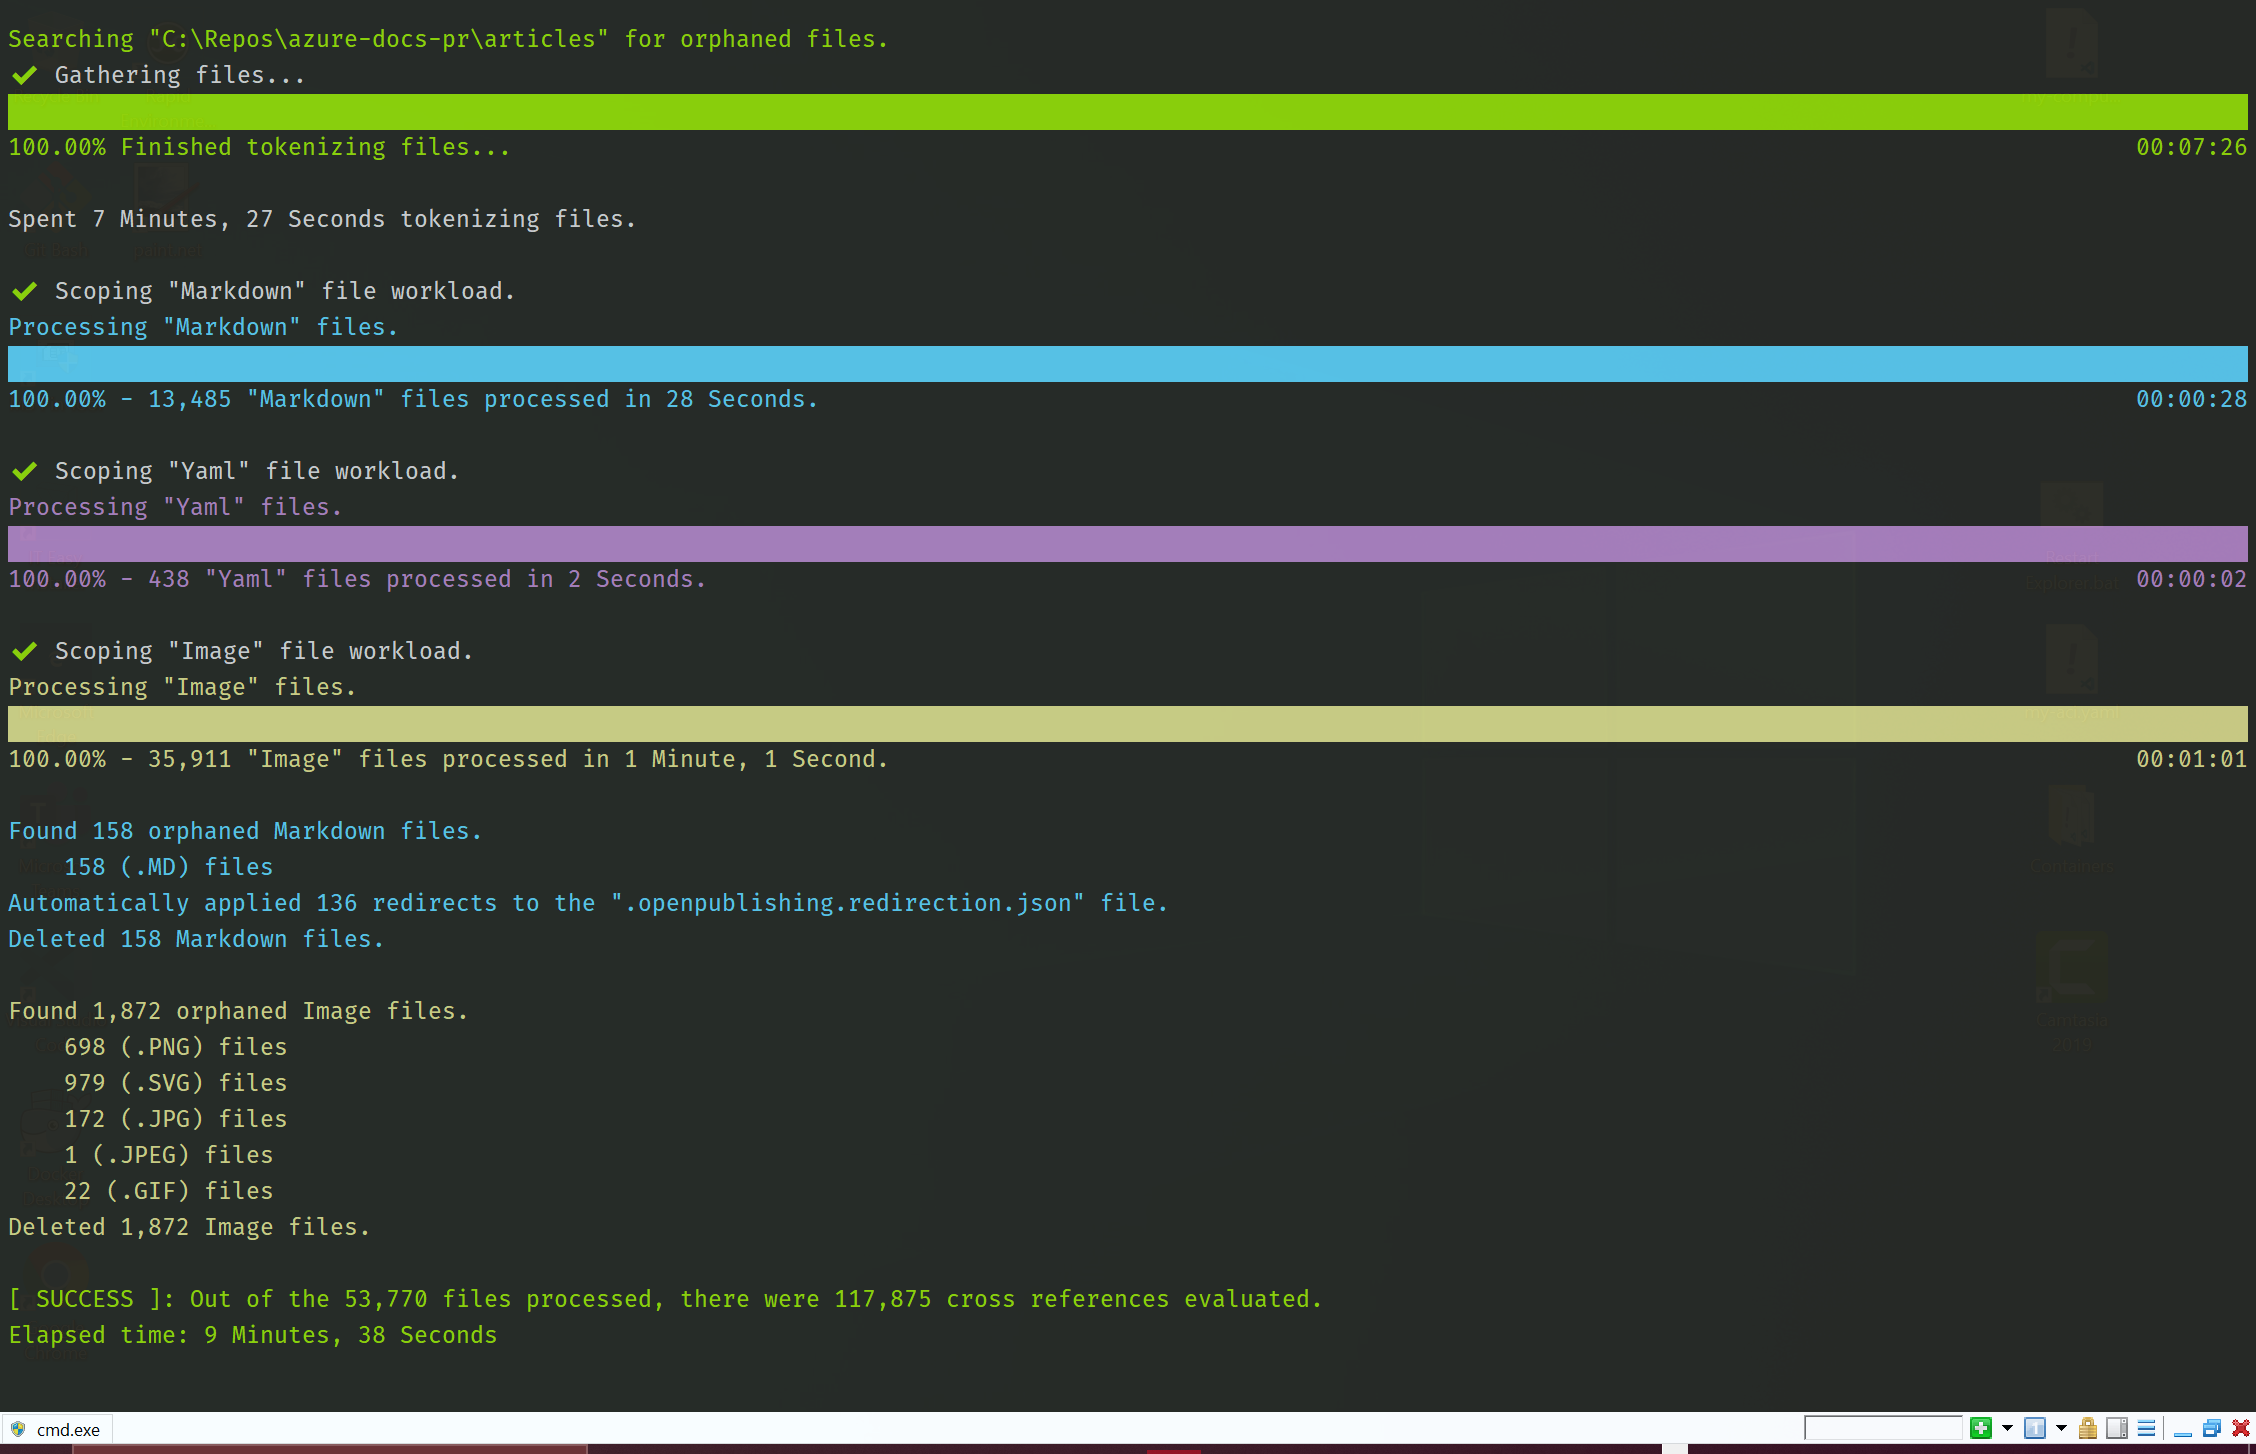
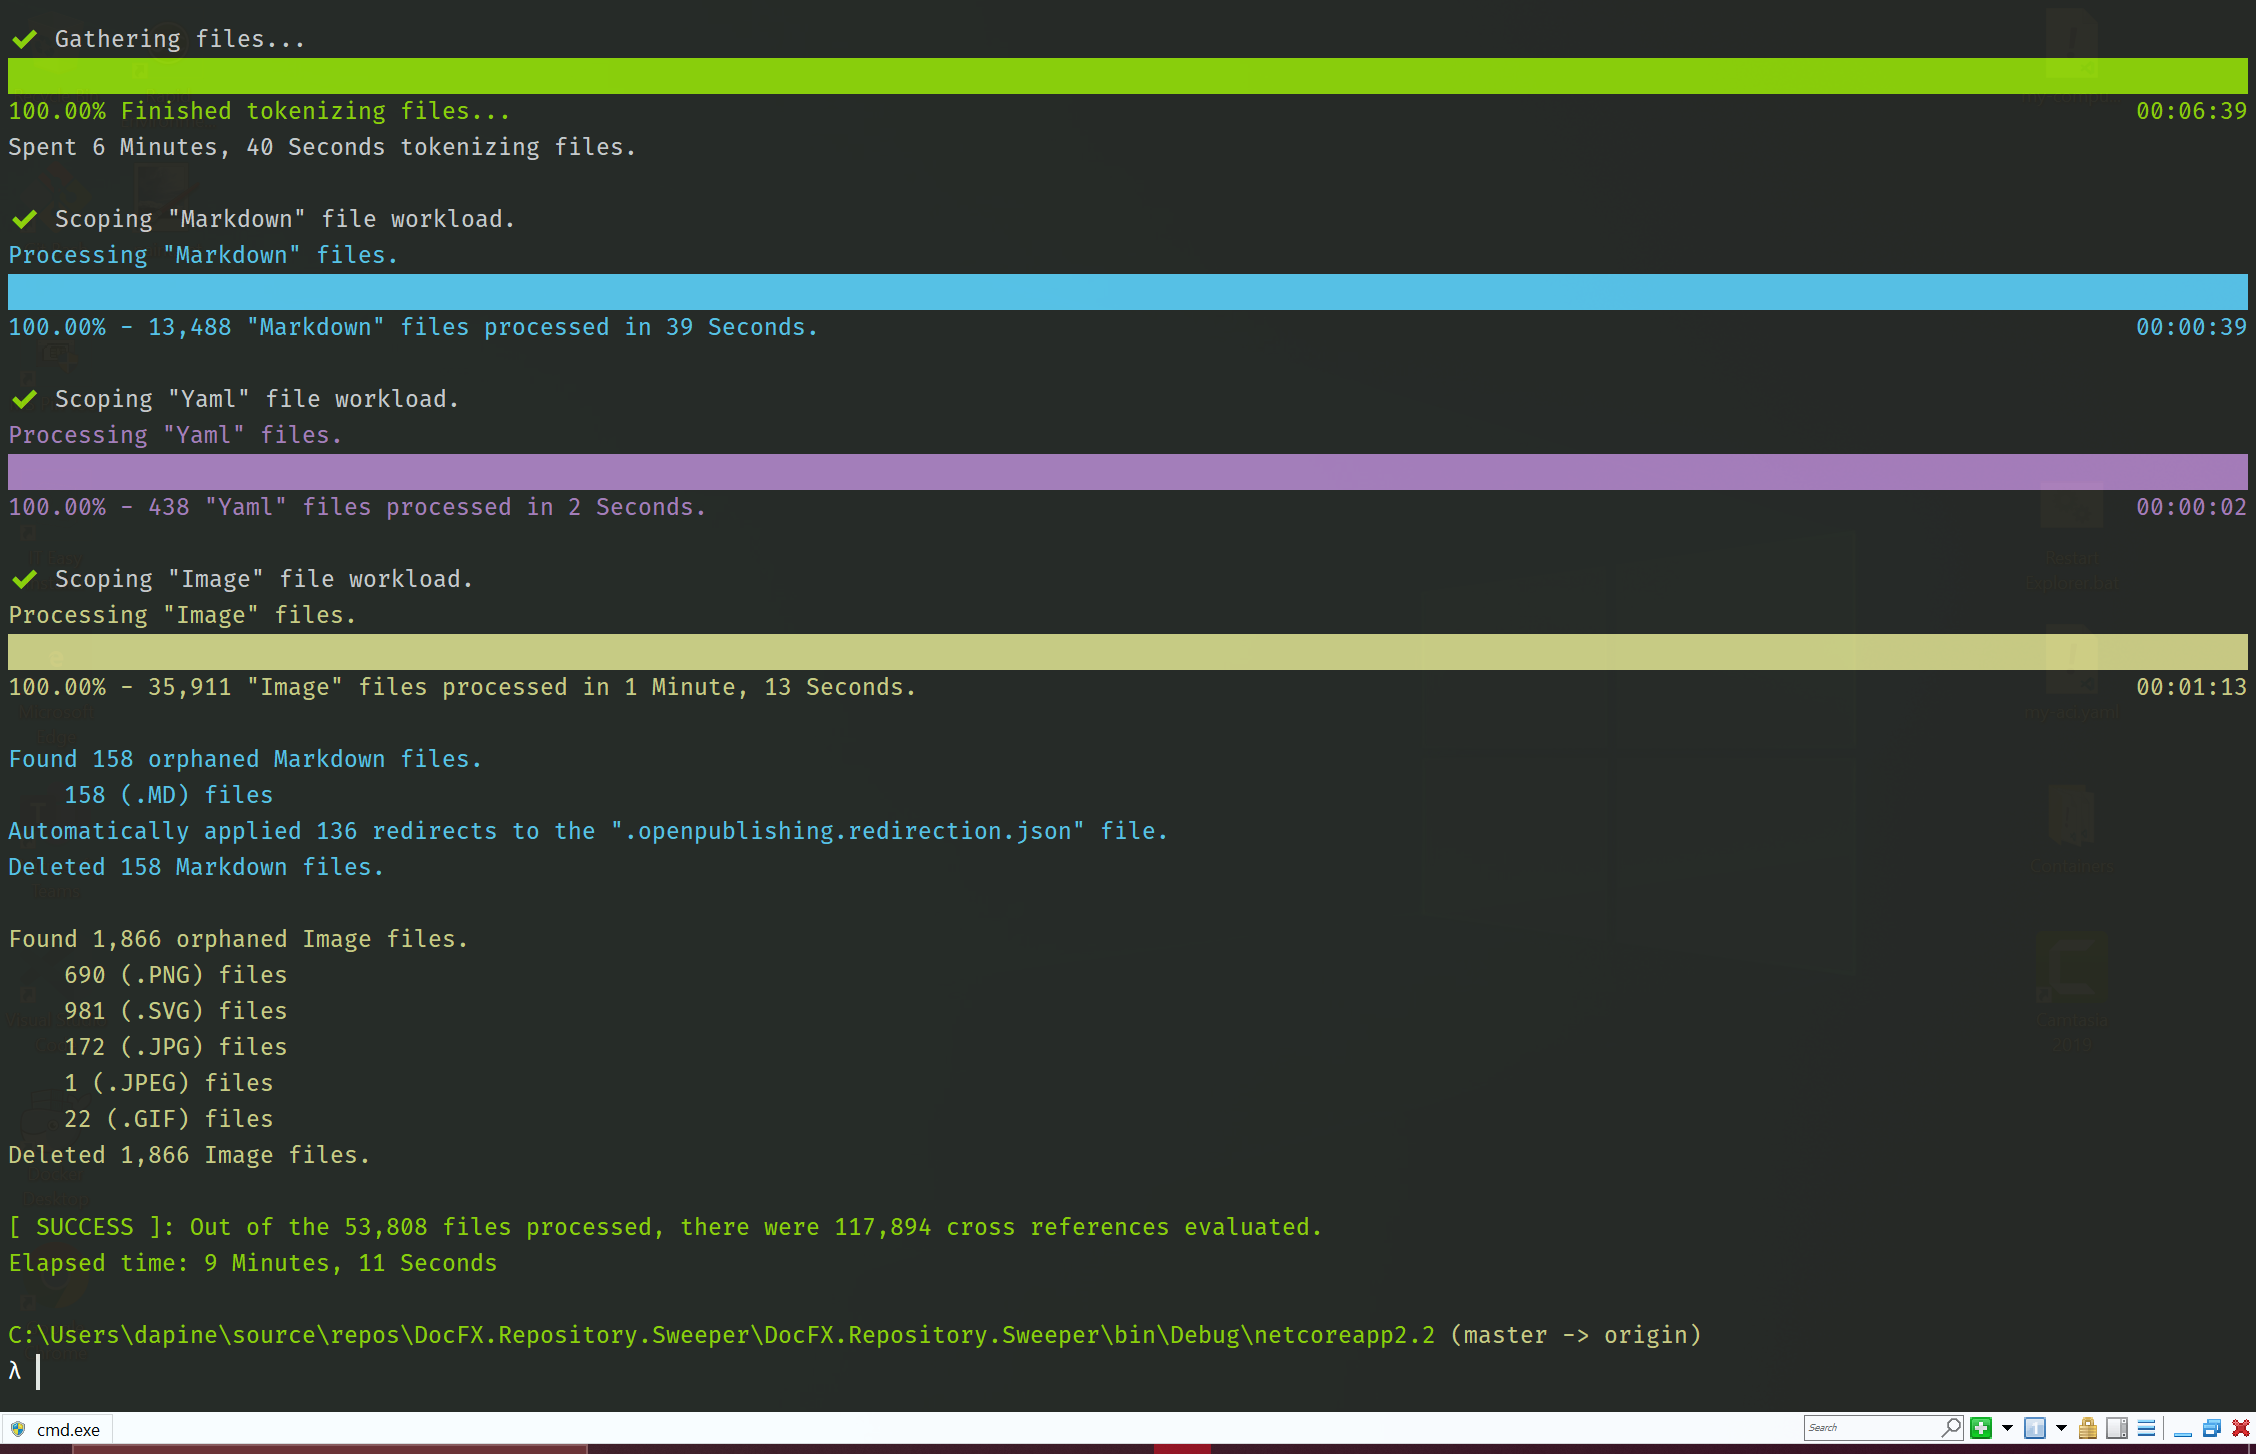
Fixed the last of the known bugs

diff --git a/DocFX.Repository.Sweeper/Core/FileToken.cs b/DocFX.Repository.Sweeper/Core/FileToken.cs
@@ -15,8 +15,6 @@ namespace DocFX.Repository.Sweeper.Core
 
         readonly FileInfo _fileInfo;
         readonly Lazy<Task<string[]>> _readAllLinesTask;
-        readonly HashSet<string> _imagesReferenced = new HashSet<string>();
-        readonly HashSet<string> _topicsReferenced = new HashSet<string>();
 
         public FileToken(FileInfo file)
         {
@@ -32,8 +30,8 @@ namespace DocFX.Repository.Sweeper.Core
 
         public string FilePath => _fileInfo?.FullName;
         public FileType FileType { get; }
-        public ISet<string> TopicsReferenced => _topicsReferenced;
-        public ISet<string> ImagesReferenced => _imagesReferenced;
+        public ISet<string> TopicsReferenced { get; } = new HashSet<string>();
+        public ISet<string> ImagesReferenced { get; } = new HashSet<string>();
         public int TotalReferences => TopicsReferenced.Count + ImagesReferenced.Count;
         public bool IsRelevant => FileType != FileType.NotRelevant && FileType != FileType.Json;
         public bool IsMarkedForDeletion { get; set; }
@@ -45,7 +43,7 @@ namespace DocFX.Repository.Sweeper.Core
             {
                 case FileType.Markdown:
                 case FileType.Yaml:
-                    return $"{type} File: {_fileInfo.Name}, references {_topicsReferenced.Count} other files and {_imagesReferenced.Count} images.";
+                    return $"{type} File: {_fileInfo.Name}, references {TopicsReferenced.Count} other files and {ImagesReferenced.Count} images.";
 
                 case FileType.Json:
                 case FileType.Image:
@@ -67,17 +65,17 @@ namespace DocFX.Repository.Sweeper.Core
             {
                 case FileType.Markdown:
                 case FileType.Yaml:
-                    return _topicsReferenced.Any(file => string.Equals(file, other.FilePath, StringComparison.OrdinalIgnoreCase));
+                    return TopicsReferenced.Any(file => string.Equals(file, other.FilePath, StringComparison.OrdinalIgnoreCase));
 
                 case FileType.Image:
-                    return _imagesReferenced.Any(image => string.Equals(image, other.FilePath, StringComparison.OrdinalIgnoreCase));
+                    return ImagesReferenced.Any(image => string.Equals(image, other.FilePath, StringComparison.OrdinalIgnoreCase));
 
                 default:
                     return false;
             }
         }
 
-        public async Task InitializeAsync()
+        public async ValueTask InitializeAsync()
         {
             if (_readAllLinesTask is null)
             {
@@ -99,10 +97,10 @@ namespace DocFX.Repository.Sweeper.Core
                     switch (file.GetFileType())
                     {
                         case FileType.Image:
-                            _imagesReferenced.Add(file.FullName);
+                            ImagesReferenced.Add(file.FullName);
                             break;
                         case FileType.Markdown:
-                            _topicsReferenced.Add(file.FullName);
+                            TopicsReferenced.Add(file.FullName);
                             break;
                     }
                 }
@@ -123,17 +121,10 @@ namespace DocFX.Repository.Sweeper.Core
                     yield return match.Groups["link"].Value;
                 }
 
-                if (match.Groups.Count == 3)
+                foreach (Group group in match.Groups)
                 {
-                    yield return match.Groups[1].Value;
-                    yield return match.Groups[2].Value;
+                    yield return group.Value;
                 }
-                else if (match.Groups.Count > 0)
-                {
-                    yield return match.Groups[match.Groups.Count - 1].Value;
-                }
-
-                yield return match.Value;
             }
 
             foreach (var value in
@@ -148,13 +139,13 @@ namespace DocFX.Repository.Sweeper.Core
         string CleanMatching(string value)
         {
             if (string.IsNullOrWhiteSpace(value) ||
-                value.StartsWith("http:", StringComparison.OrdinalIgnoreCase) ||
-                value.StartsWith("https:", StringComparison.OrdinalIgnoreCase) ||
+                value.StartsWith("http", StringComparison.OrdinalIgnoreCase) ||
                 value.StartsWith("#"))
             {
                 return null;
             }
 
+            value = value.Trim();
             if (value.StartsWith(".//"))
             {
                 value = value.Substring(3);
@@ -165,7 +156,7 @@ namespace DocFX.Repository.Sweeper.Core
             }
 
             var cleaned =
-                StripQueryStringOrHeaderLink(value.Trim())
+                StripQueryStringOrHeaderLink(value)
                     .Replace("~", "..")
                     .Replace("/azure/", "/articles/");
 

diff --git a/DocFX.Repository.Sweeper/Core/FileTypeUtils.cs b/DocFX.Repository.Sweeper/Core/FileTypeUtils.cs
@@ -17,47 +17,45 @@ namespace DocFX.Repository.Sweeper.Core
 
         static readonly RegexOptions Options = RegexOptions.Singleline | RegexOptions.Compiled | RegexOptions.IgnoreCase;
 
-        static readonly Regex MarkdownLinkRegex = new Regex(@"[^!]\[.+?\]\((\s*.+?)\)", Options);
-        static readonly Regex MarkdownImageLinkRegex = new Regex(@"\!\[(.*?)\][\[\(](\s*.*?)[\ \]\)\r\n]", Options);
+        static readonly Regex MarkdownLinkRegex = new Regex(@"[^!]\[.+?\]\((?'link'\s*.+?)\)", Options);
+        static readonly Regex MarkdownImageLinkRegex = new Regex(@"\!\[(.*?)\][\[\(](?'link'\s*.*?)[\ \]\)\r\n]", Options);
         static readonly Regex MarkdownLightboxImageLinkRegex = new Regex(@"\[\!\[(.*?)\][\[\(](\s*.*?)[\ \]\)]\]\((.*?)\)", Options);
-        static readonly Regex MarkdownIncludeLinkRegex = new Regex(@"\[\!(.*?)\][\[\(](\s*.*?)[\ \]\)\r\n]", Options);
-        static readonly Regex MarkdownReferenceLinkRegex = new Regex(@"\[.*\]:(\s*.*)", Options);
+        static readonly Regex MarkdownIncludeLinkRegex = new Regex(@"\[\!(.*?)\][\[\(](?'link'\s*.*?)[\ \]\)\r\n]", Options);
+        static readonly Regex MarkdownReferenceLinkRegex = new Regex(@"\[.*\]:(?'link'\s*.*)", Options);
         static readonly Regex MarkdownReferenceLinkWithTitleRegex = new Regex(@"\[.*\]:(?'link'.+?(?=""))", Options);
-        static readonly Regex MarkdownCatchAllLinkRegex = new Regex(@"(.*?)\][\[\(](\s*.*?)[\ \]\)\r\n]", Options);
+        static readonly Regex MarkdownCatchAllLinkRegex = new Regex(@"(.*?)\][\[\(](?'link'\s*.*?)[\ \]\)\r\n]", Options);
         static readonly Regex MarkdownNestedParathesesRegex = new Regex(@"\](?:[^()]|(?<open>[(])|(?<content-open>[)]))*(?(open)(?!))", Options);
         static readonly Regex SrcLinkAttributeRegex = new Regex("src\\s*=\\s*\"(?'link'.+?)\"", Options);
         static readonly Regex HrefLinkAttributeRegex = new Regex("href\\s*=\\s*\"(?'link'.+?)\"", Options);
         static readonly Regex YamlLinkRegex = new Regex(@"href:.+?(?'link'.*)", Options);
         static readonly Regex YamlSrcLinkRegex = new Regex(@"src:.+?(?'link'.*)", Options);
 
-        public static IEnumerable<Regex> MapExpressions(FileType fileType)
-        {
-            switch (fileType)
+        static readonly IDictionary<FileType, IEnumerable<Regex>> Expressions =
+            new Dictionary<FileType, IEnumerable<Regex>>
             {
-                case FileType.Markdown:
-                    yield return MarkdownLinkRegex;
-                    yield return MarkdownLightboxImageLinkRegex;
-                    yield return MarkdownImageLinkRegex;
-                    yield return MarkdownIncludeLinkRegex;
-                    yield return MarkdownReferenceLinkRegex;
-                    yield return MarkdownReferenceLinkWithTitleRegex;
-                    yield return MarkdownNestedParathesesRegex;
-                    yield return MarkdownCatchAllLinkRegex;
-                    yield return SrcLinkAttributeRegex;
-                    yield return HrefLinkAttributeRegex;
-                    break;
+                [FileType.Markdown] = new[]
+                {
+                    MarkdownLinkRegex,
+                    MarkdownImageLinkRegex,
+                    MarkdownLightboxImageLinkRegex,
+                    MarkdownIncludeLinkRegex,
+                    MarkdownReferenceLinkRegex,
+                    MarkdownReferenceLinkWithTitleRegex,
+                    MarkdownNestedParathesesRegex,
+                    MarkdownCatchAllLinkRegex,
+                    SrcLinkAttributeRegex,
+                    HrefLinkAttributeRegex
+                },
+                [FileType.Yaml] = new[]
+                {
+                    YamlLinkRegex,
+                    YamlSrcLinkRegex,
+                    SrcLinkAttributeRegex,
+                    HrefLinkAttributeRegex
+                }
+            };
 
-                case FileType.Yaml:
-                    yield return YamlLinkRegex;
-                    yield return YamlSrcLinkRegex;
-                    yield return SrcLinkAttributeRegex;
-                    yield return HrefLinkAttributeRegex;
-                    break;
-
-                default:
-                    yield break;
-            }
-        }
+        public static IEnumerable<Regex> MapExpressions(FileType fileType) => Expressions[fileType];
 
         internal ConsoleColor Color { get; private set; }
     }

diff --git a/DocFX.Repository.SweeperTests/FileTokenTests.cs b/DocFX.Repository.SweeperTests/FileTokenTests.cs
@@ -1,6 +1,5 @@
 using DocFX.Repository.Sweeper.Core;
 using System.IO;
-using System.Linq;
 using System.Threading.Tasks;
 using Xunit;
 
@@ -41,21 +40,6 @@ namespace DocFX.Repository.SweeperTests
             {
                 Assert.True(token.HasReferenceTo(otherToken));
             }
-        }
-
-        [Fact]
-        public void RegexTest()
-        {
-            var test =
-                @"		<td valign=""top"" width=""50 % "">2.<br/><a src=""./ref-seven.md"" width=""85 % "" alt-text=""Shows the Microsoft sign-in page""/><ul><li>User is redirected to Microsoft Sign-in page</li><li>User provides credentials to sign in</li></ul></td>
-";
-
-            Assert.Contains(
-                FileTypeUtils.MapExpressions(FileType.Markdown)
-                             .SelectMany(regex => regex.Matches(test)),
-                match =>
-                match?.Groups.Any(grp => 
-                                  grp.Name == "link" && grp.Value == "./ref-seven.md") ?? false);
         }
     }
 }

diff --git a/DocFX.Repository.SweeperTests/ObjectExtensionTests.cs b/DocFX.Repository.SweeperTests/ObjectExtensionTests.cs
@@ -1,6 +1,5 @@
 using DocFX.Repository.Sweeper.Extensions;
 using DocFX.Repository.Sweeper.OpenPublishing;
-using System;
 using System.Collections.Generic;
 using System.IO;
 using System.Linq;
